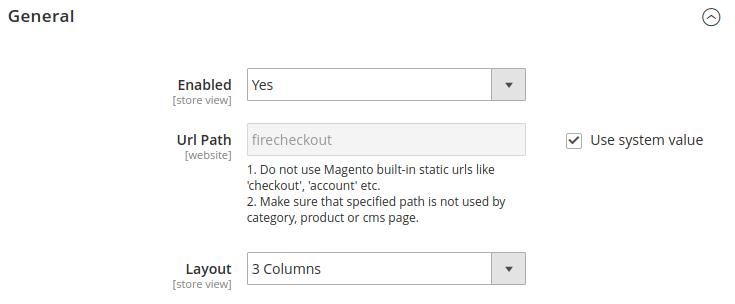
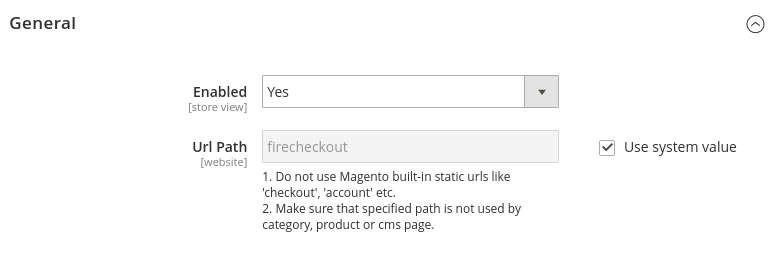
Firecheckout M2: 1.5.0

diff --git a/m2/extensions/firecheckout/configuration.md b/m2/extensions/firecheckout/configuration.md
@@ -16,7 +16,27 @@ Option      | Description
 ------------|------------
 Enabled     | Allows to enable/disable firecheckout per store view
 Url Path    | Set custom url to the firecheckout page
+
+### Design section
+
+![Design section](/images/m2/firecheckout/configuration/design.png)
+
+Option      | Description
+------------|------------
+Page Layout | [Select page layout](#page-layout) to use at firecheckout page
 Layout      | [Select layout](#layout) to use at firecheckout page
+
+#### Page Layout
+
+There are 3 page layouts are available to use:
+
+ -  Default Checkout Layout
+ -  Empty (Minimalistic 1column layout)
+ -  Full (Full 1column layout with header, navigation and footer)
+
+Page layout screenshots:
+
+{% include gallery.html images=site.data.gallery.m2.firecheckout.configuration.page-layout class="scroll phone-up-1 tablet-up-3 photoswipe" %}
 
 #### Layout
 
@@ -30,6 +50,16 @@ There are 4 layouts are available to use:
 Layout screenshots:
 
 {% include gallery.html images=site.data.gallery.m2.firecheckout.configuration.layout class="scroll phone-up-1 tablet-up-3 photoswipe" %}
+
+### Additional content section
+
+![Additional content section](/images/m2/firecheckout/configuration/additional-content.png)
+
+Option                  | Description
+------------------------|------------
+Above Firecheckout Form | Additional content above firecheckout form
+Below Firecheckout Form | Additional content below firecheckout form
+Below order summary     | Additional content below order summary
 
 #### Next up
 

diff --git a/m2/extensions/firecheckout/changelog.md b/m2/extensions/firecheckout/changelog.md
@@ -8,6 +8,36 @@ category: Firecheckout
 
 # Changelog
 
+### Version 1.5.0
+
+**Major Updates**
+
+ -  Fixed tax recalculation when changing zipcode or state
+ -  Added ability to use [three page layout types](/m2/extensions/firecheckout/configuration/#page-layout):
+    -  Default Checkout Layout
+    -  Empty (Minimalistic 1column layout)
+    -  Full (Full 1column layout with header, navigation and footer)
+ -  Added [additional content](/m2/extensions/firecheckout/configuration/#additional-content-section) support:
+    -  Above firecheckout form
+    -  Below firecheckout form
+    -  Below checkout summary
+
+**Fixes and Improvements**
+
+ -  Complete styles refactoring to simplify checkout modification for developers
+ -  Improved modal popup effects for desktop devices
+ -  Fixed non-working checkout on mobile devices
+ -  Fixed css issue with street address label on a new line
+ -  Better compatiblity with third-party themes
+ -  Added 'equal-shiping-billing' class name to the body for additional styles
+ -  Fixed payment methods block positioning, when a lot of shippings are available
+ -  Many CSS fixes and improvements
+
+**Modules updates**
+
+ -  [CheckoutCart 1.1.0](/m2/extensions/checkout-cart/)
+ -  [DeliveryDate 1.0.2](/m2/extensions/delivery-date/)
+
 ### Version 1.4.0
 
 **Major Updates**
